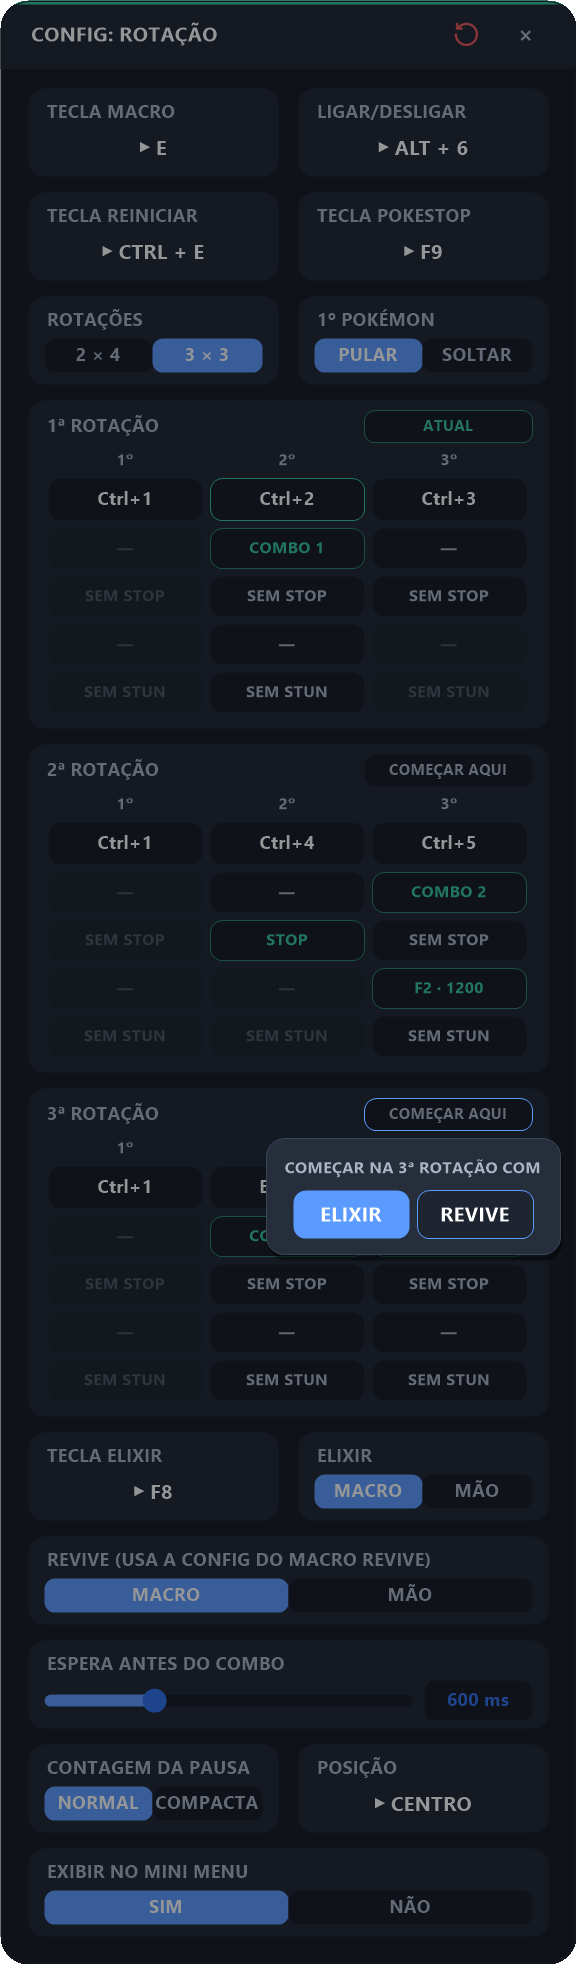
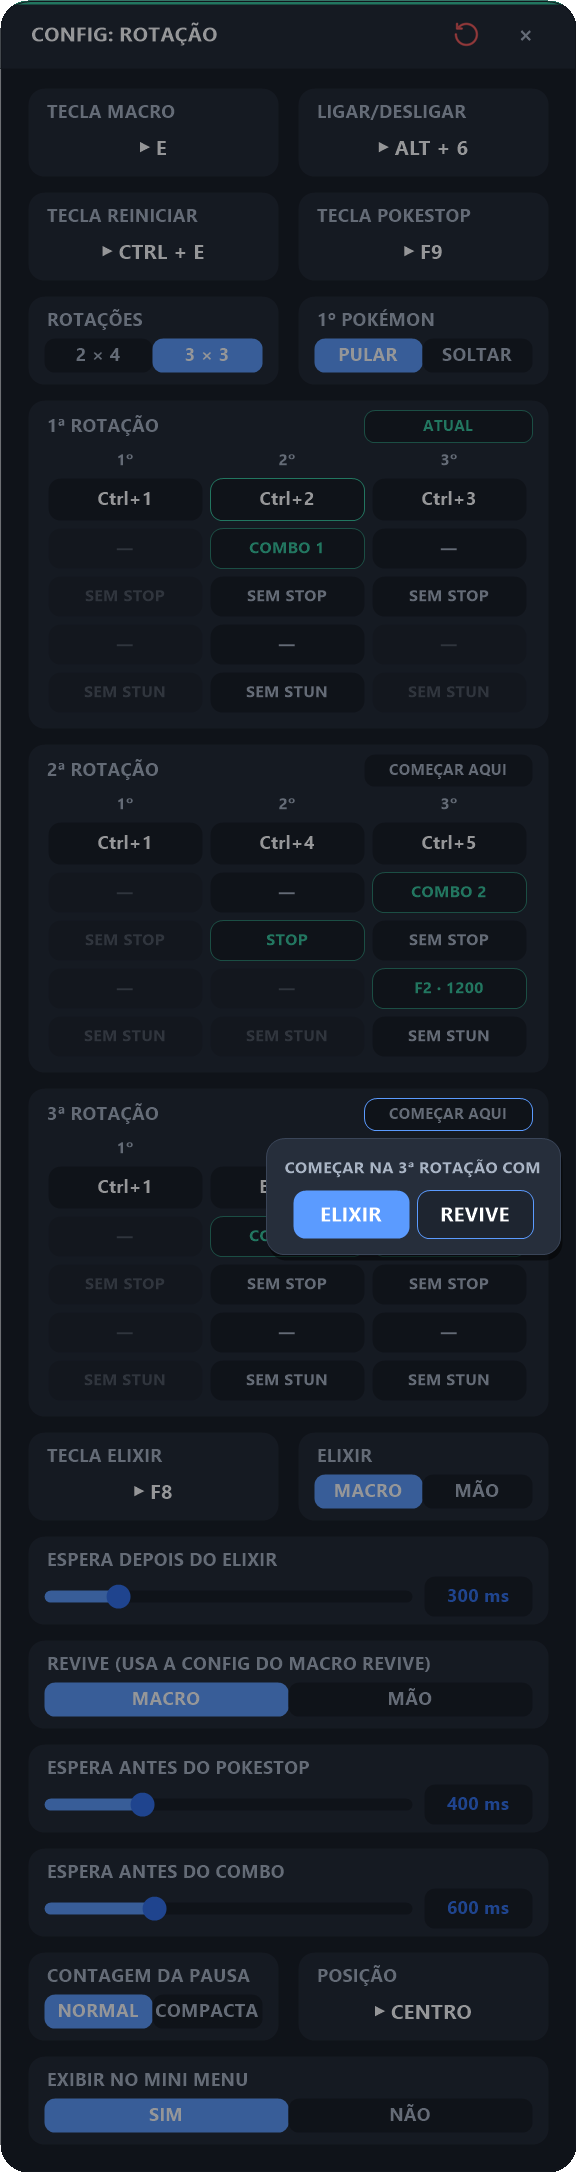
Combos avisam botões mal configurados; esperas do Pokestop e do elixir na tela da Rotação (v2.8.0)

diff --git a/CLAUDE.md b/CLAUDE.md
@@ -45,7 +45,7 @@ There is no test suite. To check a change:
 - Combo sequencing (`_RodarSequenciaCombo` in `combo.ahk`) is shared by `comboPrincipal`/`comboSecundario`/`comboRevive` and Rotação's post-swap combo: optional Full Attack key → sequential keys from `teclaInicial` to `teclaFinal` (as `F<n>` or `<n>` depending on the global `usarPrefixoF` setting) → optional Full Defense key. Interruption is a generation counter, not a flag: `InterromperCombo()` bumps `_comboGeracao` and returns the new value; every combo run captures that `gen` and stops once it changes (a flag broke when the interrupter also runs a combo — AHK suspends the older thread until the newer one finishes, so the old combo resumed afterwards). All waits go through `EsperarInterrompivel(ms, gen)`, which polls `_ComboPodeContinuar(gen)` (generation unchanged and `JogoAtivo()`) every ~10ms using a deadline computed from `A_TickCount` — plain `Sleep` accumulation was found to drift under Windows' ~15.6ms timer granularity.
 - `revive.ahk`'s `_EnviarSequenciaRevive` runs in `Critical` mode so another hotkey thread can't interleave key-up/down events mid-sequence; `_reviveOcupado` is a re-entrancy lock shared between `revive` and `comboRevive` (both ultimately call this same function). Behavior branches on the global `modoLegado` setting (right-click targeting vs. `Ctrl+1` slot select).
 - `cooldown.ahk` walks Pokémon slots from `pokemonInicial` down to 1, sending `Ctrl+<mapped key>` per slot (no mouse click/position) (the mapped key lets slot order differ from team order), waiting a per-slot configured number of seconds between each. Auto re-focuses the game window mid-wait if it lost focus, and bails out if the game process disappears entirely.
-- `rotacao.ahk`: each exec press sends one `Ctrl+<slot>` and advances `_rotacaoPos` (in-memory only) through the sequence of all rotations in order. Format `formato` = `2x4` (2 rotations × 4 steps, INI keys `r<rot>p<passo>`) or `3x3` (3 × 3, keys `t<rot>p<passo>` — separate so switching keeps both configs); see `GetFormatoRotacao`/`_CfgSlotRotacao`/`_ChaveSlotRotacao`. 0 = empty/skipped step (3x3 defaults rot 3 step 2 to empty: the "repeated pokémon" the user can opt into). The config screen's height depends on the format (`AlturaConfigRotacao`), so changing format reopens it via `SetTimer`. Each rotation card has an `ATUAL` / `COMEÇAR AQUI` chip; the latter calls `RotacaoIrPara(rot)` (position → that rotation's first sent step; the lap/E-R turn is unchanged). On a rotation with an ITEM step the chip (even `ATUAL`) opens an ELIXIR/REVIVE picker instead (`_ComecarRotacaoComVez` → `RotacaoDefinirVez`, which sets `_rotacaoCiclo` parity; on `ATUAL` only the turn changes). `_GCfg_AbrirSeletor` takes an optional `chipW` for word-sized options, and an optional `slider` object (a `_GCfg_Slider` drawn under the chips; with it, picking a chip keeps the panel open). Turning the macro on (`DefinirMacro`), editing the config, or the extra `teclaReiniciar` hotkey (a non-exec slot in `_HotkeySlots`) reset it to step 1 of the sequence. Unless `enviarPrimeiro=true`, `RotacaoSequencia` drops step 1 of *every* rotation (the player pulls that pokémon manually at the start of each rotation), so the default sequence is `2-3-4 | 2-5-6` (2x4) or `2-3 | 4-5 | 6` (3x3). Each press also calls `InterromperCombo()` so a running combo stops before the swap. Each step can also fire a combo after the swap (INI key = step key + `c`, 0 none / 1 `comboPrincipal` / 2 `comboSecundario`, see `_CfgComboRotacao`/`COMBOS_ROTACAO`), after `delayCombo` ms; it runs from a `SetTimer` (`_RodarComboRotacao`), not the hotkey thread, because `#MaxThreadsPerHotkey 2` would drop rapid presses during a long combo. It uses that combo's keys even if that combo macro is off. Each step can also pause that post-swap combo mid-way (INI keys = step key + `pt` (key number, 0 none) / `pm` (ms, `PAUSA_ROTACAO_MIN..MAX`), see `_CfgPausaRotacao`, edited from the 4th chip via a seletor-with-slider panel): `_RodarSequenciaCombo(cfg, gen, pausa)` replaces the inter-key delay after that key with `_EsperarPausaCombo` (interruptible, countdown hint showing only the remaining time); ignored if the key isn't between `teclaInicial` and `teclaFinal - 1`. Only the rotation's post-swap combo pauses, never the combos' own hotkeys. **Stun count**: `_RodarSequenciaCombo(..., stun)` calls `StunIniciar()` (combo.ahk: a 100ms timer independent of the combo/its generation, 6 s `STUN_MS`, red in the last 2 s, restarted by any later stun key, stopped only by the panic hotkey via `StunParar`) right after sending key `stun`. Hotkey combos use the combo screen's `stunAtivo`/`stunTecla` (`_CfgStunCombo`); the rotation's post-swap combo uses only the step's 5th chip (step key + `st`, `_CfgStunRotacao`), never the combo's setting. `TeclasDoCombo(secao)` lists a combo's key numbers. Each step can also have Pokestop on (INI key = step key + `s`, `true`/`false`, see `_CfgPokestopRotacao`): right after the `Ctrl+<slot>` (in the hotkey thread, before the combo timer) it waits `Rotacao/delayPokestop` ms (default 400, INI-only — sent right after the swap the game ignored it) and sends the global `Geral/teclaPokestop` key (`GetTeclaPokestop`), editable from both the Rotação and Configurações Gerais screens. Its icon is `icons/rotacao.png`; when the macro is on, `_HudDesenharIconeRotacao` darkens it and draws the next slot number on top ("R" for a revive, "E" while an elixir is pending for the next combo — `RotacaoElixirPendente`). A step (never step 1) can be an ITEM step instead of a slot (INI value `item`, `_CfgSlotRotacao` returns `ROTACAO_ITEM`, picker label `E/R`) that alternates per lap of the sequence (`_rotacaoCiclo`, odd = elixir, even = revive; reset by `ReiniciarRotacao`), always on the pokémon *before* it: on elixir laps the rotation key skips it, and while `_rotacaoPos` sits on it the next `comboPrincipal`/`comboSecundario` (via `ExecutarCombo` → `RotacaoUsarElixir`) first sends `Rotacao/teclaElixir` and waits `delayElixir` (once per position) — likewise a rotation post-swap combo, but only when the item is in the same rotation as the step just sent, so the previous rotation's last pokémon never gets it; on revive laps the rotation key runs `_EnviarSequenciaRevive` with the Revive screen's config, then that step's stop/combo. `elixirModo`/`reviveModo` = `mao` makes the macro skip that lap. `_RotacaoAlvo` resolves which entry a press actually sends (skipping inactive item steps); `_RotacaoAvancar` advances from it. The screen grows by 104 px (elixir/revive fields) only when the format has an ITEM step, so gaining/losing one reopens it.
+- `rotacao.ahk`: each exec press sends one `Ctrl+<slot>` and advances `_rotacaoPos` (in-memory only) through the sequence of all rotations in order. Format `formato` = `2x4` (2 rotations × 4 steps, INI keys `r<rot>p<passo>`) or `3x3` (3 × 3, keys `t<rot>p<passo>` — separate so switching keeps both configs); see `GetFormatoRotacao`/`_CfgSlotRotacao`/`_ChaveSlotRotacao`. 0 = empty/skipped step (3x3 defaults rot 3 step 2 to empty: the "repeated pokémon" the user can opt into). The config screen's height depends on the format (`AlturaConfigRotacao`), so changing format reopens it via `SetTimer`. Each rotation card has an `ATUAL` / `COMEÇAR AQUI` chip; the latter calls `RotacaoIrPara(rot)` (position → that rotation's first sent step; the lap/E-R turn is unchanged). On a rotation with an ITEM step the chip (even `ATUAL`) opens an ELIXIR/REVIVE picker instead (`_ComecarRotacaoComVez` → `RotacaoDefinirVez`, which sets `_rotacaoCiclo` parity; on `ATUAL` only the turn changes). `_GCfg_AbrirSeletor` takes an optional `chipW` for word-sized options, and an optional `slider` object (a `_GCfg_Slider` drawn under the chips; with it, picking a chip keeps the panel open). Turning the macro on (`DefinirMacro`), editing the config, or the extra `teclaReiniciar` hotkey (a non-exec slot in `_HotkeySlots`) reset it to step 1 of the sequence. Unless `enviarPrimeiro=true`, `RotacaoSequencia` drops step 1 of *every* rotation (the player pulls that pokémon manually at the start of each rotation), so the default sequence is `2-3-4 | 2-5-6` (2x4) or `2-3 | 4-5 | 6` (3x3). Each press also calls `InterromperCombo()` so a running combo stops before the swap. Each step can also fire a combo after the swap (INI key = step key + `c`, 0 none / 1 `comboPrincipal` / 2 `comboSecundario`, see `_CfgComboRotacao`/`COMBOS_ROTACAO`), after `delayCombo` ms; it runs from a `SetTimer` (`_RodarComboRotacao`), not the hotkey thread, because `#MaxThreadsPerHotkey 2` would drop rapid presses during a long combo. It uses that combo's keys even if that combo macro is off. Each step can also pause that post-swap combo mid-way (INI keys = step key + `pt` (key number, 0 none) / `pm` (ms, `PAUSA_ROTACAO_MIN..MAX`), see `_CfgPausaRotacao`, edited from the 4th chip via a seletor-with-slider panel): `_RodarSequenciaCombo(cfg, gen, pausa)` replaces the inter-key delay after that key with `_EsperarPausaCombo` (interruptible, countdown hint showing only the remaining time); ignored if the key isn't between `teclaInicial` and `teclaFinal - 1`. Only the rotation's post-swap combo pauses, never the combos' own hotkeys. **Stun count**: `_RodarSequenciaCombo(..., stun)` calls `StunIniciar()` (combo.ahk: a 100ms timer independent of the combo/its generation, 6 s `STUN_MS`, red in the last 2 s, restarted by any later stun key, stopped only by the panic hotkey via `StunParar`) right after sending key `stun`. Hotkey combos use the combo screen's `stunAtivo`/`stunTecla` (`_CfgStunCombo`); the rotation's post-swap combo uses only the step's 5th chip (step key + `st`, `_CfgStunRotacao`), never the combo's setting. `TeclasDoCombo(secao)` lists a combo's key numbers. Each step can also have Pokestop on (INI key = step key + `s`, `true`/`false`, see `_CfgPokestopRotacao`): right after the `Ctrl+<slot>` (in the hotkey thread, before the combo timer) it waits `Rotacao/delayPokestop` ms (`GetDelayPokestop`, default 400 — sent right after the swap the game ignored it; slider shown only when a sent step has STOP, `RotacaoTemPokestop`) and sends the global `Geral/teclaPokestop` key (`GetTeclaPokestop`), editable from both the Rotação and Configurações Gerais screens. Its icon is `icons/rotacao.png`; when the macro is on, `_HudDesenharIconeRotacao` darkens it and draws the next slot number on top ("R" for a revive, "E" while an elixir is pending for the next combo — `RotacaoElixirPendente`). A step (never step 1) can be an ITEM step instead of a slot (INI value `item`, `_CfgSlotRotacao` returns `ROTACAO_ITEM`, picker label `E/R`) that alternates per lap of the sequence (`_rotacaoCiclo`, odd = elixir, even = revive; reset by `ReiniciarRotacao`), always on the pokémon *before* it: on elixir laps the rotation key skips it, and while `_rotacaoPos` sits on it the next `comboPrincipal`/`comboSecundario` (via `ExecutarCombo` → `RotacaoUsarElixir`) first sends `Rotacao/teclaElixir` and waits `delayElixir` (`GetDelayElixir`, once per position) — likewise a rotation post-swap combo, but only when the item is in the same rotation as the step just sent, so the previous rotation's last pokémon never gets it; on revive laps the rotation key runs `_EnviarSequenciaRevive` with the Revive screen's config, then that step's stop/combo. `elixirModo`/`reviveModo` = `mao` makes the macro skip that lap. `_RotacaoAlvo` resolves which entry a press actually sends (skipping inactive item steps); `_RotacaoAvancar` advances from it. The screen grows by 156 px (elixir/revive fields) only when the format has an ITEM step, and by 52 px (Pokestop delay) only when a sent step has STOP; any change that alters `AlturaConfigRotacao()` reopens it via `_ReabrirRotacaoSeMudou`.
 - All macro key/hotkey capture and conflict checking goes through `lib/input.ahk` + `ConflitoDeTecla`/`HotkeySlotExiste` in `macros/hotkeys.ahk` — don't hand-roll new `Hotkey()` registrations elsewhere.
 
 ### User documentation (`README.md` + `docs/`)

diff --git a/README.md b/README.md
@@ -348,7 +348,7 @@ Funciona exatamente igual ao **Combo Principal**, mas é uma configuração sepa
 3. Ligar a Rotação sempre começa do início; a **Tecla Reiniciar** faz o mesmo no meio do jogo. Por padrão o macro **pula o 1º passo de todas as rotações** (você puxa esse pokémon à mão no começo de cada rotação): no 2 × 4 os apertos enviam `2-3-4 | 2-5-6`, no 3 × 3 `2-3 | 4-5 | 6`, e voltam para o `2`.
 4. Cada aperto **interrompe o combo em andamento**, para as skills restantes não saírem no pokémon que acabou de entrar.
 5. **Combo depois da troca (opcional, por passo):** cada passo pode soltar o **Combo 1** (config do Combo Principal) ou o **Combo 2** (config do Combo Secundário) logo depois do `Ctrl+N`, após a **Espera antes do combo**. Apertar a Tecla Macro de novo no meio do combo para ele e já faz a próxima troca. Cada passo também pode **pausar o combo** depois de uma tecla (ex.: `F2`) por 500 a 3000 ms, para você mover o pokémon — com a contagem do tempo na tela — e então soltar o resto.
-6. **Pokestop (opcional, por passo):** com o `STOP` ligado num passo, o macro aperta a **Tecla Pokestop** ~0,4 s depois do `Ctrl+N` (tempo do jogo processar a troca) — antes do combo pós-troca, se houver.
+6. **Pokestop (opcional, por passo):** com o `STOP` ligado num passo, o macro aperta a **Tecla Pokestop** depois do `Ctrl+N`, passada a **Espera antes do Pokestop** (padrão 0,4 s — tempo do jogo processar a troca) — antes do combo pós-troca, se houver.
 7. **Elixir / Revive (passo `E/R`, opcional):** um passo pode ser `E/R` em vez de um `Ctrl+N` — ex.: o 2º da 3ª rotação no 3 × 3, que fica `1 → E/R → 6`. Ele alterna a cada volta da sequência, sempre no pokémon de antes dele (o 1º): na 1ª volta (e 3ª, 5ª...) é o **Elixir de Ataque**, usado automaticamente quando você aperta a tecla do **Combo Principal/Secundário** nesse pokémon, antes das skills; na 2ª volta (e 4ª, 6ª...) é o **Revive**, feito pela Tecla Macro da Rotação (depois dele, o combo e o Pokestop do passo, se marcados). Cada um pode ser `MACRO` ou `MÃO` (o macro pula aquela volta).
 
 #### Opções de Configuração
@@ -368,7 +368,9 @@ Funciona exatamente igual ao **Combo Principal**, mas é uma configuração sepa
 | **Stun** | Última linha de cada cartão: `SEM STUN` ou, ex., `STUN F6` — quando o combo pós-troca daquele passo envia o `F6`, aparece a contagem de 6 s do stun (no combo da Rotação vale este chip, não a opção da tela do combo) |
 | **Contagem da pausa** / **Posição** | Tamanho da contagem da pausa (`NORMAL`, número grande, ou `COMPACTA`) e onde ela aparece: clique em **Posição** para abrir uma prévia e arrastá-la pela tela (botão direito = volta ao centro); clique de novo para fechar |
 | **Tecla Elixir** / **Elixir** | *(só com um passo `E/R`)* A hotkey do Elixir de Ataque no jogo (aceita Ctrl/Alt/Shift + tecla ou botão do mouse, ex.: `CTRL + XBUTTON2`), e se ele é usado pelo `MACRO` ou à `MÃO` |
+| **Espera depois do elixir** | *(só com um passo `E/R`)* Tempo (0–1500 ms, padrão 300) entre a Tecla Elixir e a 1ª skill do combo |
 | **Revive** | *(só com um passo `E/R`)* Se o revive é feito pelo `MACRO` (com a posição, hotkey e delay da tela do Revive) ou à `MÃO` |
+| **Espera antes do Pokestop** | *(só com algum passo em `STOP`)* Tempo (0–1500 ms, padrão 400) entre o `Ctrl+N` e a Tecla Pokestop — logo depois da troca, o jogo ignora |
 | **Espera antes do combo** | Tempo (0–2000 ms, padrão 500) entre a troca e o combo, para o pokémon já estar fora |
 
 ---

diff --git a/docs/02-combos.md b/docs/02-combos.md
@@ -120,6 +120,8 @@ No jogo, quando o combo envia o botão do stun, a contagem aparece e vai descend
 | Sintoma | Solução |
 |---------|---------|
 | Nada acontece | O ícone está com anel azul? O jogo está em foco? Botão Inicial/Final e Tecla do Macro não estão `N/A`? |
+| Aviso *"COMBO PRINCIPAL: configure os botões INICIAL e FINAL"* (ou SECUNDÁRIO) | O **Botão Inicial** (1) ou o **Final** (2) não está definido, ou o inicial vem depois do final (ex.: `F8` → `F3`). Ao salvar um botão assim, a tela já avisa *"BOTÃO INICIAL (…) está depois do FINAL (…)"* |
+| Aviso *"BOTÃO INICIAL: use uma tecla com número"* | Os botões do combo precisam ser teclas com número (`F3` ou `3`) — só o número é usado. A tecla não foi salva |
 | Algumas habilidades não saem | Aumente o **Delay Entre Teclas** (o jogo pode estar recusando teclas muito rápidas) |
 | Sai a tecla errada (`3` em vez de `F3`) | Ajuste o **Prefixo [F]** nas Configurações Gerais |
 | O combo parou no meio | Algo o interrompeu: Revive, Pânico, macro desligado ou você trocou de janela |

diff --git a/docs/04-combo-revive.md b/docs/04-combo-revive.md
@@ -70,6 +70,7 @@ Se a posição do Revive não estiver definida, aparece o aviso *"COMBO REVIVE: 
 | Sintoma | Solução |
 |---------|---------|
 | Revive funciona mas o combo não sai | Aumente o **Delay Após Revive**; confira Botão Inicial/Final |
+| Aviso *"COMBO REVIVE: configure os botões INICIAL e FINAL"* | O Botão Inicial ou o Final não está definido, ou o inicial vem depois do final (ex.: `F8` → `F3`) |
 | O revive sai invertido | Calibre a [detecção do pokémon](03-revive.md#34-detecção-do-pokémon-ícone-do-dedo) na tela do Revive |
 | Nada acontece | Combo Revive ligado na HUD? Jogo em foco? Tecla do Macro definida? |
 
